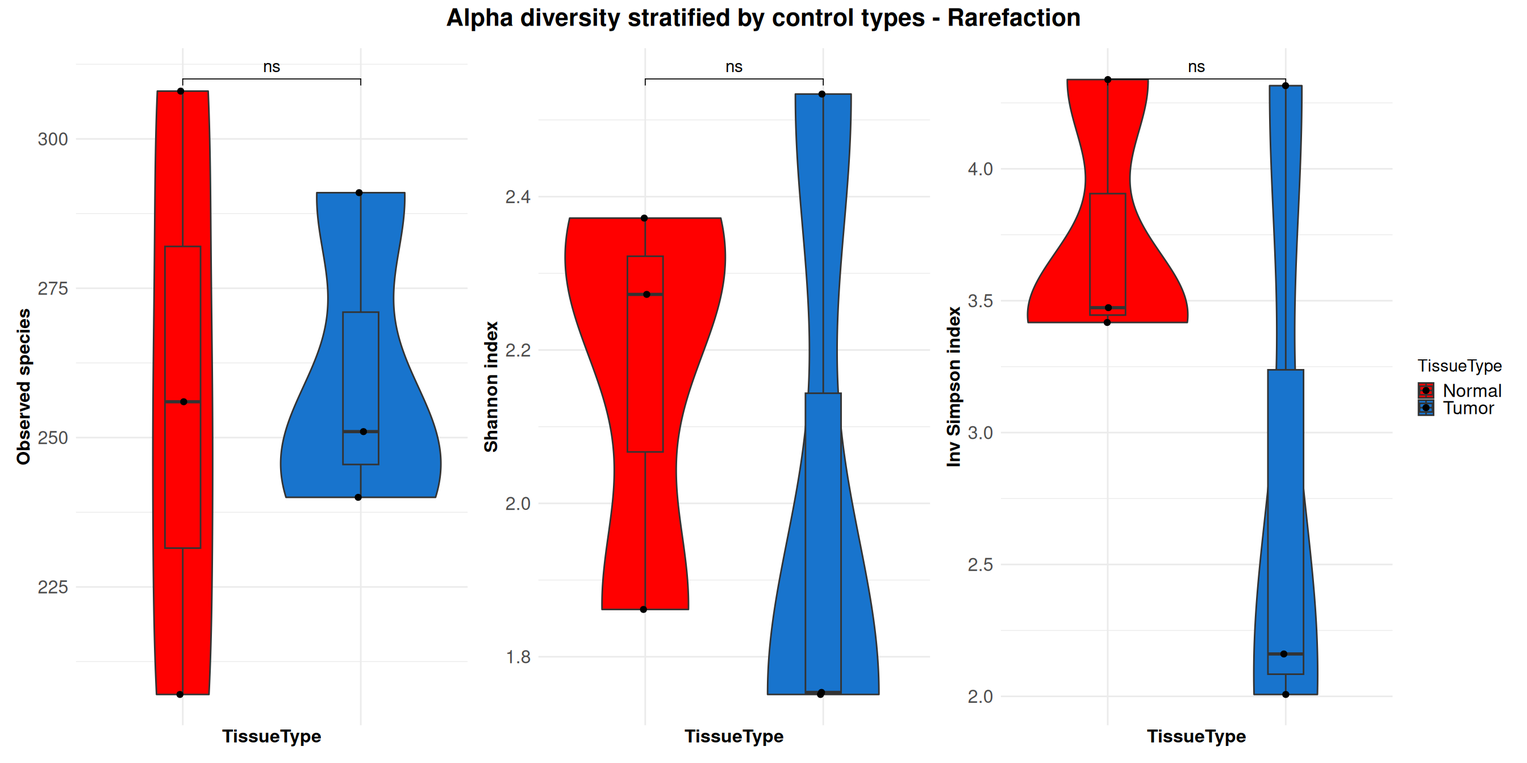
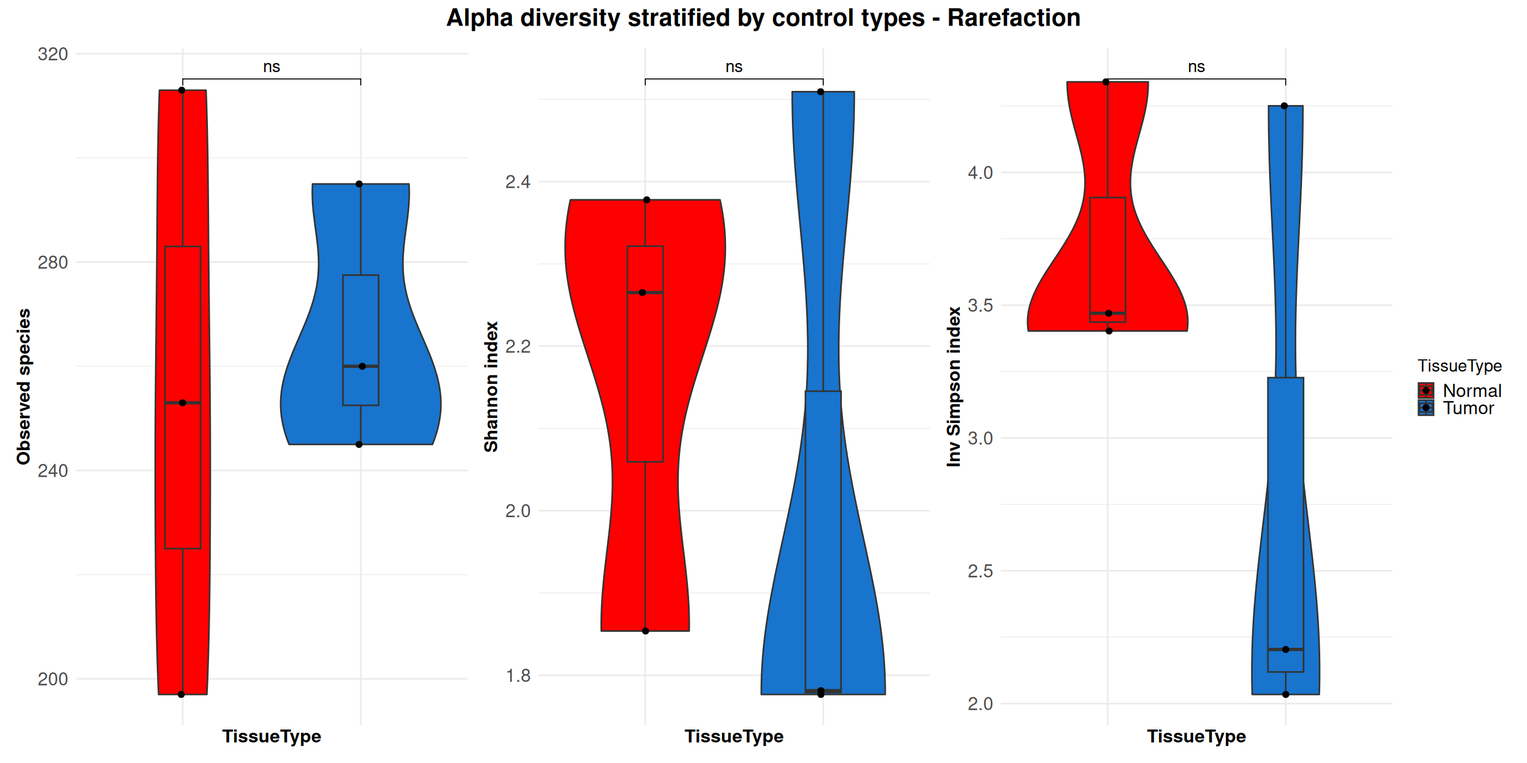
update Inspect for Dresden data

diff --git a/Rscripts/TTDresden/Inspect.html b/Rscripts/TTDresden/Inspect.html
@@ -657,6 +657,7 @@ pre > code.sourceCode > span > a:first-child::before { text-decoration: underlin
 </div>
 </div>
 </div>
+<p>Nejman Decontamination</p>
 <div class="cell" data-fig-lightbox="true">
 <details class="code-fold">
 <summary>Code</summary>
@@ -670,31 +671,55 @@ pre > code.sourceCode > span > a:first-child::before { text-decoration: underlin
 </div>
 </div>
 </div>
+<p>Taxa from Nj method</p>
+<div class="cell">
+<details class="code-fold">
+<summary>Code</summary>
+<div class="sourceCode cell-code" id="cb23"><pre class="sourceCode r code-with-copy"><code class="sourceCode r"><span id="cb23-1"><a href="#cb23-1" aria-hidden="true" tabindex="-1"></a><span class="fu">print</span>(pseq_Nj <span class="sc">%&gt;%</span> <span class="fu">taxa_sums</span>() <span class="sc">%&gt;%</span> <span class="fu">as.data.frame</span>())</span></code><button title="Copy to Clipboard" class="code-copy-button"><i class="bi"></i></button></pre></div>
+</details>
+<div class="cell-output cell-output-stdout">
+<pre><code>                                   .
+Burkholderia_cepacia             220
+Brucella_anthropi                106
+Oxalobacter_formigenes            45
+Enterococcus_faecalis          18039
+Enterococcus_faecium             842
+Lactiplantibacillus_plantarum    892
+Ligilactobacillus_murinus       5573
+Brevundimonas_bullata            183
+Burkholderia_pseudomallei         38
+Staphylococcus_capitis          3385
+Gemella_morbillorum              925
+Stenotrophomonas_maltophilia    1256
+Granulicatella_adiacens          836
+Burkholderia_pyrrocinia           58
+Burkholderia_cenocepacia        1073
+Paraburkholderia_hospita          47
+Verminephrobacter_eiseniae        10
+Rhodopseudomonas_boonkerdii       84
+Burkholderia_lata                306
+Burkholderia_arboris              95
+Stenotrophomonas_sp._9           188
+Bradyrhizobium_arachidis          62
+Rhodococcus_sp._P1Y               17
+Bradyrhizobium_diazoefficiens     44
+Janthinobacterium_sp._HH102      154
+Rhodococcus_sp._B7740            244
+Paucibacter_sp._KCTC_42545      1234
+Janthinobacterium_sp._LM6        451
+Stenotrophomonas_sp._WZN-1       194
+Burkholderia_aenigmatica         110
+Rhodoferax_sp._AJA081-3           29
+Bradyrhizobium_prioritasuperba   266
+Sphingomonas_cannabina           361
+Janthinobacterium_sp._TB1-E2      80</code></pre>
+</div>
+</div>
 <p>Heatmap</p>
 <div class="cell" data-fig-lightbox="true">
 <details class="code-fold">
 <summary>Code</summary>
-<div class="sourceCode cell-code" id="cb23"><pre class="sourceCode r code-with-copy"><code class="sourceCode r"><span id="cb23-1"><a href="#cb23-1" aria-hidden="true" tabindex="-1"></a><span class="fu">HeatMap_MicroViz</span>(<span class="at">ps =</span> pseq_Decontam, <span class="at">rnk =</span> <span class="st">"genus"</span>, <span class="at">tax_trans =</span> <span class="st">"compositional"</span>, <span class="at">tax_order_by =</span> sum, <span class="at">n_taxa =</span> <span class="dv">15</span>, <span class="at">strata =</span> <span class="st">"TissueType"</span>, <span class="at">my_title =</span> <span class="st">"Top 15 genera by sum"</span>)</span></code><button title="Copy to Clipboard" class="code-copy-button"><i class="bi"></i></button></pre></div>
-</details>
-<div class="cell-output-display">
-<div>
-<figure class="figure">
-<p><img src="Inspect_files/figure-html/unnamed-chunk-24-1.png" class="img-fluid figure-img" width="960"></p>
-</figure>
-</div>
-</div>
-<div class="cell-output-display">
-<div>
-<figure class="figure">
-<p><img src="Inspect_files/figure-html/unnamed-chunk-24-2.png" class="img-fluid figure-img" width="960"></p>
-</figure>
-</div>
-</div>
-</div>
-<div class="cell" data-fig-lightbox="true">
-<details class="code-fold">
-<summary>Code</summary>
-<div class="sourceCode cell-code" id="cb24"><pre class="sourceCode r code-with-copy"><code class="sourceCode r"><span id="cb24-1"><a href="#cb24-1" aria-hidden="true" tabindex="-1"></a><span class="fu">HeatMap_MicroViz</span>(<span class="at">ps =</span> pseq_Decontam, <span class="at">rnk =</span> <span class="st">"genus"</span>, <span class="at">tax_trans =</span> <span class="st">"compositional"</span>, <span class="at">tax_order_by =</span> prev, <span class="at">n_taxa =</span> <span class="dv">15</span>, <span class="at">strata =</span> <span class="st">"TissueType"</span>, <span class="at">my_title =</span> <span class="st">"Top 15 genera by prev"</span>)</span></code><button title="Copy to Clipboard" class="code-copy-button"><i class="bi"></i></button></pre></div>
+<div class="sourceCode cell-code" id="cb25"><pre class="sourceCode r code-with-copy"><code class="sourceCode r"><span id="cb25-1"><a href="#cb25-1" aria-hidden="true" tabindex="-1"></a><span class="fu">HeatMap_MicroViz</span>(<span class="at">ps =</span> pseq_Decontam, <span class="at">rnk =</span> <span class="st">"genus"</span>, <span class="at">tax_trans =</span> <span class="st">"compositional"</span>, <span class="at">tax_order_by =</span> sum, <span class="at">n_taxa =</span> <span class="dv">15</span>, <span class="at">strata =</span> <span class="st">"TissueType"</span>, <span class="at">my_title =</span> <span class="st">"Top 15 genera by sum"</span>)</span></code><button title="Copy to Clipboard" class="code-copy-button"><i class="bi"></i></button></pre></div>
 </details>
 <div class="cell-output-display">
 <div>
@@ -714,7 +739,7 @@ pre > code.sourceCode > span > a:first-child::before { text-decoration: underlin
 <div class="cell" data-fig-lightbox="true">
 <details class="code-fold">
 <summary>Code</summary>
-<div class="sourceCode cell-code" id="cb25"><pre class="sourceCode r code-with-copy"><code class="sourceCode r"><span id="cb25-1"><a href="#cb25-1" aria-hidden="true" tabindex="-1"></a><span class="fu">HeatMap_MicroViz</span>(<span class="at">ps =</span> pseq_Decontam, <span class="at">rnk =</span> <span class="st">"family"</span>, <span class="at">tax_trans =</span> <span class="st">"compositional"</span>, <span class="at">tax_order_by =</span> sum, <span class="at">n_taxa =</span> <span class="dv">15</span>, <span class="at">strata =</span> <span class="st">"TissueType"</span>, <span class="at">my_title =</span> <span class="st">"Top 15 families by sum"</span>)</span></code><button title="Copy to Clipboard" class="code-copy-button"><i class="bi"></i></button></pre></div>
+<div class="sourceCode cell-code" id="cb26"><pre class="sourceCode r code-with-copy"><code class="sourceCode r"><span id="cb26-1"><a href="#cb26-1" aria-hidden="true" tabindex="-1"></a><span class="fu">HeatMap_MicroViz</span>(<span class="at">ps =</span> pseq_Decontam, <span class="at">rnk =</span> <span class="st">"genus"</span>, <span class="at">tax_trans =</span> <span class="st">"compositional"</span>, <span class="at">tax_order_by =</span> prev, <span class="at">n_taxa =</span> <span class="dv">15</span>, <span class="at">strata =</span> <span class="st">"TissueType"</span>, <span class="at">my_title =</span> <span class="st">"Top 15 genera by prev"</span>)</span></code><button title="Copy to Clipboard" class="code-copy-button"><i class="bi"></i></button></pre></div>
 </details>
 <div class="cell-output-display">
 <div>
@@ -734,7 +759,7 @@ pre > code.sourceCode > span > a:first-child::before { text-decoration: underlin
 <div class="cell" data-fig-lightbox="true">
 <details class="code-fold">
 <summary>Code</summary>
-<div class="sourceCode cell-code" id="cb26"><pre class="sourceCode r code-with-copy"><code class="sourceCode r"><span id="cb26-1"><a href="#cb26-1" aria-hidden="true" tabindex="-1"></a><span class="fu">HeatMap_MicroViz</span>(<span class="at">ps =</span> pseq_Decontam, <span class="at">rnk =</span> <span class="st">"class"</span>, <span class="at">tax_trans =</span> <span class="st">"compositional"</span>, <span class="at">tax_order_by =</span> sum, <span class="at">n_taxa =</span> <span class="dv">10</span>, <span class="at">strata =</span> <span class="st">"TissueType"</span>, <span class="at">my_title =</span> <span class="st">"Top 10 classes by sum"</span>)</span></code><button title="Copy to Clipboard" class="code-copy-button"><i class="bi"></i></button></pre></div>
+<div class="sourceCode cell-code" id="cb27"><pre class="sourceCode r code-with-copy"><code class="sourceCode r"><span id="cb27-1"><a href="#cb27-1" aria-hidden="true" tabindex="-1"></a><span class="fu">HeatMap_MicroViz</span>(<span class="at">ps =</span> pseq_Decontam, <span class="at">rnk =</span> <span class="st">"family"</span>, <span class="at">tax_trans =</span> <span class="st">"compositional"</span>, <span class="at">tax_order_by =</span> sum, <span class="at">n_taxa =</span> <span class="dv">15</span>, <span class="at">strata =</span> <span class="st">"TissueType"</span>, <span class="at">my_title =</span> <span class="st">"Top 15 families by sum"</span>)</span></code><button title="Copy to Clipboard" class="code-copy-button"><i class="bi"></i></button></pre></div>
 </details>
 <div class="cell-output-display">
 <div>
@@ -751,6 +776,26 @@ pre > code.sourceCode > span > a:first-child::before { text-decoration: underlin
 </div>
 </div>
 </div>
+<div class="cell" data-fig-lightbox="true">
+<details class="code-fold">
+<summary>Code</summary>
+<div class="sourceCode cell-code" id="cb28"><pre class="sourceCode r code-with-copy"><code class="sourceCode r"><span id="cb28-1"><a href="#cb28-1" aria-hidden="true" tabindex="-1"></a><span class="fu">HeatMap_MicroViz</span>(<span class="at">ps =</span> pseq_Decontam, <span class="at">rnk =</span> <span class="st">"class"</span>, <span class="at">tax_trans =</span> <span class="st">"compositional"</span>, <span class="at">tax_order_by =</span> sum, <span class="at">n_taxa =</span> <span class="dv">10</span>, <span class="at">strata =</span> <span class="st">"TissueType"</span>, <span class="at">my_title =</span> <span class="st">"Top 10 classes by sum"</span>)</span></code><button title="Copy to Clipboard" class="code-copy-button"><i class="bi"></i></button></pre></div>
+</details>
+<div class="cell-output-display">
+<div>
+<figure class="figure">
+<p><img src="Inspect_files/figure-html/unnamed-chunk-28-1.png" class="img-fluid figure-img" width="960"></p>
+</figure>
+</div>
+</div>
+<div class="cell-output-display">
+<div>
+<figure class="figure">
+<p><img src="Inspect_files/figure-html/unnamed-chunk-28-2.png" class="img-fluid figure-img" width="960"></p>
+</figure>
+</div>
+</div>
+</div>
 </section>
 <section id="daa" class="level1">
 <h1>2. DAA</h1>
@@ -759,27 +804,27 @@ pre > code.sourceCode > span > a:first-child::before { text-decoration: underlin
 <div class="cell">
 <details class="code-fold">
 <summary>Code</summary>
-<div class="sourceCode cell-code" id="cb27"><pre class="sourceCode r code-with-copy"><code class="sourceCode r"><span id="cb27-1"><a href="#cb27-1" aria-hidden="true" tabindex="-1"></a><span class="fu">require</span>(ANCOMBC)</span>
-<span id="cb27-2"><a href="#cb27-2" aria-hidden="true" tabindex="-1"></a></span>
-<span id="cb27-3"><a href="#cb27-3" aria-hidden="true" tabindex="-1"></a><span class="co"># res &lt;- pseq %&gt;% ps_filter(person != "unknown") %&gt;% </span></span>
-<span id="cb27-4"><a href="#cb27-4" aria-hidden="true" tabindex="-1"></a><span class="co">#   ps_filter(sample_type != "pcr_ctrl") %&gt;% </span></span>
-<span id="cb27-5"><a href="#cb27-5" aria-hidden="true" tabindex="-1"></a><span class="co">#   tax_filter(min_prevalence = 0.05, min_total_abundance = 1e-5, prev_detection_threshold = 2) %&gt;% </span></span>
-<span id="cb27-6"><a href="#cb27-6" aria-hidden="true" tabindex="-1"></a><span class="co">#   tax_agg(rank = "family") %&gt;% </span></span>
-<span id="cb27-7"><a href="#cb27-7" aria-hidden="true" tabindex="-1"></a><span class="co">#   ancombc2(</span></span>
-<span id="cb27-8"><a href="#cb27-8" aria-hidden="true" tabindex="-1"></a><span class="co">#   data = .,</span></span>
-<span id="cb27-9"><a href="#cb27-9" aria-hidden="true" tabindex="-1"></a><span class="co">#   rank = "family",</span></span>
-<span id="cb27-10"><a href="#cb27-10" aria-hidden="true" tabindex="-1"></a><span class="co">#   fix_formula = "sample_type",</span></span>
-<span id="cb27-11"><a href="#cb27-11" aria-hidden="true" tabindex="-1"></a><span class="co">#   rand_formula = "(1|person)",</span></span>
-<span id="cb27-12"><a href="#cb27-12" aria-hidden="true" tabindex="-1"></a><span class="co">#   group = NULL,             # Variable for multi-group comparison/structural zeros</span></span>
-<span id="cb27-13"><a href="#cb27-13" aria-hidden="true" tabindex="-1"></a><span class="co">#   struc_zero = FALSE,               # Recommended to detect absolute presence/absence</span></span>
-<span id="cb27-14"><a href="#cb27-14" aria-hidden="true" tabindex="-1"></a><span class="co">#   neg_lb = TRUE,                   # Better structural zero detection for larger samples</span></span>
-<span id="cb27-15"><a href="#cb27-15" aria-hidden="true" tabindex="-1"></a><span class="co">#   alpha = 0.1,                    # Significance level</span></span>
-<span id="cb27-16"><a href="#cb27-16" aria-hidden="true" tabindex="-1"></a><span class="co">#   n_cl = 10</span></span>
-<span id="cb27-17"><a href="#cb27-17" aria-hidden="true" tabindex="-1"></a><span class="co"># )</span></span>
-<span id="cb27-18"><a href="#cb27-18" aria-hidden="true" tabindex="-1"></a><span class="do">## ancombc2_genus.rds: --&gt; rank: genus, min_prevalence = 0.05, min_total_abundance = 1e-5</span></span>
-<span id="cb27-19"><a href="#cb27-19" aria-hidden="true" tabindex="-1"></a><span class="do">## ancombc2_species.rds --&gt; rank: species, min_prevalence = 0.05, min_total_abundance = 1e-5, prev_detection_threshold = 2</span></span>
-<span id="cb27-20"><a href="#cb27-20" aria-hidden="true" tabindex="-1"></a><span class="do">## ancombc2_family.rds  --&gt; rank: family, min_prevalence = 0.05, min_total_abundance = 1e-5, prev_detection_threshold = 2</span></span>
-<span id="cb27-21"><a href="#cb27-21" aria-hidden="true" tabindex="-1"></a><span class="co"># saveRDS(res, "./ancombc2_family.rds")</span></span></code><button title="Copy to Clipboard" class="code-copy-button"><i class="bi"></i></button></pre></div>
+<div class="sourceCode cell-code" id="cb29"><pre class="sourceCode r code-with-copy"><code class="sourceCode r"><span id="cb29-1"><a href="#cb29-1" aria-hidden="true" tabindex="-1"></a><span class="fu">require</span>(ANCOMBC)</span>
+<span id="cb29-2"><a href="#cb29-2" aria-hidden="true" tabindex="-1"></a></span>
+<span id="cb29-3"><a href="#cb29-3" aria-hidden="true" tabindex="-1"></a><span class="co"># res &lt;- pseq %&gt;% ps_filter(person != "unknown") %&gt;% </span></span>
+<span id="cb29-4"><a href="#cb29-4" aria-hidden="true" tabindex="-1"></a><span class="co">#   ps_filter(sample_type != "pcr_ctrl") %&gt;% </span></span>
+<span id="cb29-5"><a href="#cb29-5" aria-hidden="true" tabindex="-1"></a><span class="co">#   tax_filter(min_prevalence = 0.05, min_total_abundance = 1e-5, prev_detection_threshold = 2) %&gt;% </span></span>
+<span id="cb29-6"><a href="#cb29-6" aria-hidden="true" tabindex="-1"></a><span class="co">#   tax_agg(rank = "family") %&gt;% </span></span>
+<span id="cb29-7"><a href="#cb29-7" aria-hidden="true" tabindex="-1"></a><span class="co">#   ancombc2(</span></span>
+<span id="cb29-8"><a href="#cb29-8" aria-hidden="true" tabindex="-1"></a><span class="co">#   data = .,</span></span>
+<span id="cb29-9"><a href="#cb29-9" aria-hidden="true" tabindex="-1"></a><span class="co">#   rank = "family",</span></span>
+<span id="cb29-10"><a href="#cb29-10" aria-hidden="true" tabindex="-1"></a><span class="co">#   fix_formula = "sample_type",</span></span>
+<span id="cb29-11"><a href="#cb29-11" aria-hidden="true" tabindex="-1"></a><span class="co">#   rand_formula = "(1|person)",</span></span>
+<span id="cb29-12"><a href="#cb29-12" aria-hidden="true" tabindex="-1"></a><span class="co">#   group = NULL,             # Variable for multi-group comparison/structural zeros</span></span>
+<span id="cb29-13"><a href="#cb29-13" aria-hidden="true" tabindex="-1"></a><span class="co">#   struc_zero = FALSE,               # Recommended to detect absolute presence/absence</span></span>
+<span id="cb29-14"><a href="#cb29-14" aria-hidden="true" tabindex="-1"></a><span class="co">#   neg_lb = TRUE,                   # Better structural zero detection for larger samples</span></span>
+<span id="cb29-15"><a href="#cb29-15" aria-hidden="true" tabindex="-1"></a><span class="co">#   alpha = 0.1,                    # Significance level</span></span>
+<span id="cb29-16"><a href="#cb29-16" aria-hidden="true" tabindex="-1"></a><span class="co">#   n_cl = 10</span></span>
+<span id="cb29-17"><a href="#cb29-17" aria-hidden="true" tabindex="-1"></a><span class="co"># )</span></span>
+<span id="cb29-18"><a href="#cb29-18" aria-hidden="true" tabindex="-1"></a><span class="do">## ancombc2_genus.rds: --&gt; rank: genus, min_prevalence = 0.05, min_total_abundance = 1e-5</span></span>
+<span id="cb29-19"><a href="#cb29-19" aria-hidden="true" tabindex="-1"></a><span class="do">## ancombc2_species.rds --&gt; rank: species, min_prevalence = 0.05, min_total_abundance = 1e-5, prev_detection_threshold = 2</span></span>
+<span id="cb29-20"><a href="#cb29-20" aria-hidden="true" tabindex="-1"></a><span class="do">## ancombc2_family.rds  --&gt; rank: family, min_prevalence = 0.05, min_total_abundance = 1e-5, prev_detection_threshold = 2</span></span>
+<span id="cb29-21"><a href="#cb29-21" aria-hidden="true" tabindex="-1"></a><span class="co"># saveRDS(res, "./ancombc2_family.rds")</span></span></code><button title="Copy to Clipboard" class="code-copy-button"><i class="bi"></i></button></pre></div>
 </details>
 </div>
 <p><strong>Visualization</strong></p>
@@ -787,115 +832,115 @@ pre > code.sourceCode > span > a:first-child::before { text-decoration: underlin
 <div class="cell">
 <details class="code-fold">
 <summary>Code</summary>
-<div class="sourceCode cell-code" id="cb28"><pre class="sourceCode r code-with-copy"><code class="sourceCode r"><span id="cb28-1"><a href="#cb28-1" aria-hidden="true" tabindex="-1"></a><span class="co"># res &lt;- readRDS("./ancombc2_species.rds")</span></span>
-<span id="cb28-2"><a href="#cb28-2" aria-hidden="true" tabindex="-1"></a><span class="co"># res_prim &lt;- res$res</span></span>
-<span id="cb28-3"><a href="#cb28-3" aria-hidden="true" tabindex="-1"></a><span class="co"># sig_taxa_species &lt;- res_prim %&gt;%</span></span>
-<span id="cb28-4"><a href="#cb28-4" aria-hidden="true" tabindex="-1"></a><span class="co">#   mutate(Direction = if_else(lfc_sample_typeparaffin_ctrl &gt;0, "Paraffin Control", "Buffer Control")) %&gt;% </span></span>
-<span id="cb28-5"><a href="#cb28-5" aria-hidden="true" tabindex="-1"></a><span class="co">#   filter(p_sample_typeparaffin_ctrl &lt;=0.05) %&gt;% </span></span>
-<span id="cb28-6"><a href="#cb28-6" aria-hidden="true" tabindex="-1"></a><span class="co">#   arrange(desc(abs(lfc_sample_typeparaffin_ctrl))) %&gt;% </span></span>
-<span id="cb28-7"><a href="#cb28-7" aria-hidden="true" tabindex="-1"></a><span class="co">#   slice_head(n = 20)</span></span>
-<span id="cb28-8"><a href="#cb28-8" aria-hidden="true" tabindex="-1"></a><span class="co">#   #filter(diff_ConditionName == TRUE) %&gt;% # Replace ConditionName with your actual group</span></span>
-<span id="cb28-9"><a href="#cb28-9" aria-hidden="true" tabindex="-1"></a><span class="co">#   #arrange(desc(abs(lfc_ConditionName))) %&gt;%</span></span>
-<span id="cb28-10"><a href="#cb28-10" aria-hidden="true" tabindex="-1"></a><span class="co">#   #head(20)</span></span>
-<span id="cb28-11"><a href="#cb28-11" aria-hidden="true" tabindex="-1"></a><span class="co"># </span></span>
-<span id="cb28-12"><a href="#cb28-12" aria-hidden="true" tabindex="-1"></a><span class="co"># # Plotting</span></span>
-<span id="cb28-13"><a href="#cb28-13" aria-hidden="true" tabindex="-1"></a><span class="co"># ggplot(sig_taxa_species, aes(x = reorder(taxon, lfc_sample_typeparaffin_ctrl), </span></span>
-<span id="cb28-14"><a href="#cb28-14" aria-hidden="true" tabindex="-1"></a><span class="co">#                                     y = lfc_sample_typeparaffin_ctrl, fill = Direction)) +</span></span>
-<span id="cb28-15"><a href="#cb28-15" aria-hidden="true" tabindex="-1"></a><span class="co">#   #theme(legend.title = element_blank()) +</span></span>
-<span id="cb28-16"><a href="#cb28-16" aria-hidden="true" tabindex="-1"></a><span class="co">#   #theme(legend.position="top", legend.direction="horizontal") +</span></span>
-<span id="cb28-17"><a href="#cb28-17" aria-hidden="true" tabindex="-1"></a><span class="co">#   scale_fill_discrete("") +</span></span>
-<span id="cb28-18"><a href="#cb28-18" aria-hidden="true" tabindex="-1"></a><span class="co">#   geom_bar(stat = "identity") +</span></span>
-<span id="cb28-19"><a href="#cb28-19" aria-hidden="true" tabindex="-1"></a><span class="co">#   coord_flip() +</span></span>
-<span id="cb28-20"><a href="#cb28-20" aria-hidden="true" tabindex="-1"></a><span class="co">#   labs(title = "ANCOM-BC2 - Differential Abundance Analyses",</span></span>
-<span id="cb28-21"><a href="#cb28-21" aria-hidden="true" tabindex="-1"></a><span class="co">#        x = "Species", y = "Log Fold Change") +</span></span>
-<span id="cb28-22"><a href="#cb28-22" aria-hidden="true" tabindex="-1"></a><span class="co">#   theme_minimal()</span></span></code><button title="Copy to Clipboard" class="code-copy-button"><i class="bi"></i></button></pre></div>
+<div class="sourceCode cell-code" id="cb30"><pre class="sourceCode r code-with-copy"><code class="sourceCode r"><span id="cb30-1"><a href="#cb30-1" aria-hidden="true" tabindex="-1"></a><span class="co"># res &lt;- readRDS("./ancombc2_species.rds")</span></span>
+<span id="cb30-2"><a href="#cb30-2" aria-hidden="true" tabindex="-1"></a><span class="co"># res_prim &lt;- res$res</span></span>
+<span id="cb30-3"><a href="#cb30-3" aria-hidden="true" tabindex="-1"></a><span class="co"># sig_taxa_species &lt;- res_prim %&gt;%</span></span>
+<span id="cb30-4"><a href="#cb30-4" aria-hidden="true" tabindex="-1"></a><span class="co">#   mutate(Direction = if_else(lfc_sample_typeparaffin_ctrl &gt;0, "Paraffin Control", "Buffer Control")) %&gt;% </span></span>
+<span id="cb30-5"><a href="#cb30-5" aria-hidden="true" tabindex="-1"></a><span class="co">#   filter(p_sample_typeparaffin_ctrl &lt;=0.05) %&gt;% </span></span>
+<span id="cb30-6"><a href="#cb30-6" aria-hidden="true" tabindex="-1"></a><span class="co">#   arrange(desc(abs(lfc_sample_typeparaffin_ctrl))) %&gt;% </span></span>
+<span id="cb30-7"><a href="#cb30-7" aria-hidden="true" tabindex="-1"></a><span class="co">#   slice_head(n = 20)</span></span>
+<span id="cb30-8"><a href="#cb30-8" aria-hidden="true" tabindex="-1"></a><span class="co">#   #filter(diff_ConditionName == TRUE) %&gt;% # Replace ConditionName with your actual group</span></span>
+<span id="cb30-9"><a href="#cb30-9" aria-hidden="true" tabindex="-1"></a><span class="co">#   #arrange(desc(abs(lfc_ConditionName))) %&gt;%</span></span>
+<span id="cb30-10"><a href="#cb30-10" aria-hidden="true" tabindex="-1"></a><span class="co">#   #head(20)</span></span>
+<span id="cb30-11"><a href="#cb30-11" aria-hidden="true" tabindex="-1"></a><span class="co"># </span></span>
+<span id="cb30-12"><a href="#cb30-12" aria-hidden="true" tabindex="-1"></a><span class="co"># # Plotting</span></span>
+<span id="cb30-13"><a href="#cb30-13" aria-hidden="true" tabindex="-1"></a><span class="co"># ggplot(sig_taxa_species, aes(x = reorder(taxon, lfc_sample_typeparaffin_ctrl), </span></span>
+<span id="cb30-14"><a href="#cb30-14" aria-hidden="true" tabindex="-1"></a><span class="co">#                                     y = lfc_sample_typeparaffin_ctrl, fill = Direction)) +</span></span>
+<span id="cb30-15"><a href="#cb30-15" aria-hidden="true" tabindex="-1"></a><span class="co">#   #theme(legend.title = element_blank()) +</span></span>
+<span id="cb30-16"><a href="#cb30-16" aria-hidden="true" tabindex="-1"></a><span class="co">#   #theme(legend.position="top", legend.direction="horizontal") +</span></span>
+<span id="cb30-17"><a href="#cb30-17" aria-hidden="true" tabindex="-1"></a><span class="co">#   scale_fill_discrete("") +</span></span>
+<span id="cb30-18"><a href="#cb30-18" aria-hidden="true" tabindex="-1"></a><span class="co">#   geom_bar(stat = "identity") +</span></span>
+<span id="cb30-19"><a href="#cb30-19" aria-hidden="true" tabindex="-1"></a><span class="co">#   coord_flip() +</span></span>
+<span id="cb30-20"><a href="#cb30-20" aria-hidden="true" tabindex="-1"></a><span class="co">#   labs(title = "ANCOM-BC2 - Differential Abundance Analyses",</span></span>
+<span id="cb30-21"><a href="#cb30-21" aria-hidden="true" tabindex="-1"></a><span class="co">#        x = "Species", y = "Log Fold Change") +</span></span>
+<span id="cb30-22"><a href="#cb30-22" aria-hidden="true" tabindex="-1"></a><span class="co">#   theme_minimal()</span></span></code><button title="Copy to Clipboard" class="code-copy-button"><i class="bi"></i></button></pre></div>
 </details>
 </div>
 <p>Genus</p>
 <div class="cell">
 <details class="code-fold">
 <summary>Code</summary>
-<div class="sourceCode cell-code" id="cb29"><pre class="sourceCode r code-with-copy"><code class="sourceCode r"><span id="cb29-1"><a href="#cb29-1" aria-hidden="true" tabindex="-1"></a><span class="co"># res &lt;- readRDS("./ancombc2_genus.rds")</span></span>
-<span id="cb29-2"><a href="#cb29-2" aria-hidden="true" tabindex="-1"></a><span class="co"># res_prim &lt;- res$res</span></span>
-<span id="cb29-3"><a href="#cb29-3" aria-hidden="true" tabindex="-1"></a><span class="co"># sig_taxa_genus &lt;- res_prim %&gt;%</span></span>
-<span id="cb29-4"><a href="#cb29-4" aria-hidden="true" tabindex="-1"></a><span class="co">#   mutate(Direction = if_else(lfc_sample_typeparaffin_ctrl &gt;0, "Paraffin Control", "Buffer Control")) %&gt;% </span></span>
-<span id="cb29-5"><a href="#cb29-5" aria-hidden="true" tabindex="-1"></a><span class="co">#   filter(p_sample_typeparaffin_ctrl &lt;=0.05) #%&gt;% </span></span>
-<span id="cb29-6"><a href="#cb29-6" aria-hidden="true" tabindex="-1"></a><span class="co">#   #arrange(desc(abs(lfc_sample_typeparaffin_ctrl))) %&gt;% </span></span>
-<span id="cb29-7"><a href="#cb29-7" aria-hidden="true" tabindex="-1"></a><span class="co">#   #slice_head(n = 20)</span></span>
-<span id="cb29-8"><a href="#cb29-8" aria-hidden="true" tabindex="-1"></a><span class="co">#   #filter(diff_ConditionName == TRUE) %&gt;% # Replace ConditionName with your actual group</span></span>
-<span id="cb29-9"><a href="#cb29-9" aria-hidden="true" tabindex="-1"></a><span class="co">#   #arrange(desc(abs(lfc_ConditionName))) %&gt;%</span></span>
-<span id="cb29-10"><a href="#cb29-10" aria-hidden="true" tabindex="-1"></a><span class="co">#   #head(20)</span></span>
-<span id="cb29-11"><a href="#cb29-11" aria-hidden="true" tabindex="-1"></a><span class="co"># </span></span>
-<span id="cb29-12"><a href="#cb29-12" aria-hidden="true" tabindex="-1"></a><span class="co"># # Plotting</span></span>
-<span id="cb29-13"><a href="#cb29-13" aria-hidden="true" tabindex="-1"></a><span class="co"># ggplot(sig_taxa_genus, aes(x = reorder(taxon, lfc_sample_typeparaffin_ctrl), y = lfc_sample_typeparaffin_ctrl, fill = Direction)) +</span></span>
-<span id="cb29-14"><a href="#cb29-14" aria-hidden="true" tabindex="-1"></a><span class="co">#   scale_fill_discrete("") +</span></span>
-<span id="cb29-15"><a href="#cb29-15" aria-hidden="true" tabindex="-1"></a><span class="co">#   geom_bar(stat = "identity") +</span></span>
-<span id="cb29-16"><a href="#cb29-16" aria-hidden="true" tabindex="-1"></a><span class="co">#   coord_flip() +</span></span>
-<span id="cb29-17"><a href="#cb29-17" aria-hidden="true" tabindex="-1"></a><span class="co">#   labs(title = "ANCOM-BC2 - Differential Abundance Analyses",</span></span>
-<span id="cb29-18"><a href="#cb29-18" aria-hidden="true" tabindex="-1"></a><span class="co">#        x = "Genera", y = "Log Fold Change") +</span></span>
-<span id="cb29-19"><a href="#cb29-19" aria-hidden="true" tabindex="-1"></a><span class="co">#   theme_minimal()</span></span></code><button title="Copy to Clipboard" class="code-copy-button"><i class="bi"></i></button></pre></div>
+<div class="sourceCode cell-code" id="cb31"><pre class="sourceCode r code-with-copy"><code class="sourceCode r"><span id="cb31-1"><a href="#cb31-1" aria-hidden="true" tabindex="-1"></a><span class="co"># res &lt;- readRDS("./ancombc2_genus.rds")</span></span>
+<span id="cb31-2"><a href="#cb31-2" aria-hidden="true" tabindex="-1"></a><span class="co"># res_prim &lt;- res$res</span></span>
+<span id="cb31-3"><a href="#cb31-3" aria-hidden="true" tabindex="-1"></a><span class="co"># sig_taxa_genus &lt;- res_prim %&gt;%</span></span>
+<span id="cb31-4"><a href="#cb31-4" aria-hidden="true" tabindex="-1"></a><span class="co">#   mutate(Direction = if_else(lfc_sample_typeparaffin_ctrl &gt;0, "Paraffin Control", "Buffer Control")) %&gt;% </span></span>
+<span id="cb31-5"><a href="#cb31-5" aria-hidden="true" tabindex="-1"></a><span class="co">#   filter(p_sample_typeparaffin_ctrl &lt;=0.05) #%&gt;% </span></span>
+<span id="cb31-6"><a href="#cb31-6" aria-hidden="true" tabindex="-1"></a><span class="co">#   #arrange(desc(abs(lfc_sample_typeparaffin_ctrl))) %&gt;% </span></span>
+<span id="cb31-7"><a href="#cb31-7" aria-hidden="true" tabindex="-1"></a><span class="co">#   #slice_head(n = 20)</span></span>
+<span id="cb31-8"><a href="#cb31-8" aria-hidden="true" tabindex="-1"></a><span class="co">#   #filter(diff_ConditionName == TRUE) %&gt;% # Replace ConditionName with your actual group</span></span>
+<span id="cb31-9"><a href="#cb31-9" aria-hidden="true" tabindex="-1"></a><span class="co">#   #arrange(desc(abs(lfc_ConditionName))) %&gt;%</span></span>
+<span id="cb31-10"><a href="#cb31-10" aria-hidden="true" tabindex="-1"></a><span class="co">#   #head(20)</span></span>
+<span id="cb31-11"><a href="#cb31-11" aria-hidden="true" tabindex="-1"></a><span class="co"># </span></span>
+<span id="cb31-12"><a href="#cb31-12" aria-hidden="true" tabindex="-1"></a><span class="co"># # Plotting</span></span>
+<span id="cb31-13"><a href="#cb31-13" aria-hidden="true" tabindex="-1"></a><span class="co"># ggplot(sig_taxa_genus, aes(x = reorder(taxon, lfc_sample_typeparaffin_ctrl), y = lfc_sample_typeparaffin_ctrl, fill = Direction)) +</span></span>
+<span id="cb31-14"><a href="#cb31-14" aria-hidden="true" tabindex="-1"></a><span class="co">#   scale_fill_discrete("") +</span></span>
+<span id="cb31-15"><a href="#cb31-15" aria-hidden="true" tabindex="-1"></a><span class="co">#   geom_bar(stat = "identity") +</span></span>
+<span id="cb31-16"><a href="#cb31-16" aria-hidden="true" tabindex="-1"></a><span class="co">#   coord_flip() +</span></span>
+<span id="cb31-17"><a href="#cb31-17" aria-hidden="true" tabindex="-1"></a><span class="co">#   labs(title = "ANCOM-BC2 - Differential Abundance Analyses",</span></span>
+<span id="cb31-18"><a href="#cb31-18" aria-hidden="true" tabindex="-1"></a><span class="co">#        x = "Genera", y = "Log Fold Change") +</span></span>
+<span id="cb31-19"><a href="#cb31-19" aria-hidden="true" tabindex="-1"></a><span class="co">#   theme_minimal()</span></span></code><button title="Copy to Clipboard" class="code-copy-button"><i class="bi"></i></button></pre></div>
 </details>
 </div>
 <p>Family</p>
 <div class="cell">
 <details class="code-fold">
 <summary>Code</summary>
-<div class="sourceCode cell-code" id="cb30"><pre class="sourceCode r code-with-copy"><code class="sourceCode r"><span id="cb30-1"><a href="#cb30-1" aria-hidden="true" tabindex="-1"></a><span class="co"># res &lt;- readRDS("./ancombc2_family.rds")</span></span>
-<span id="cb30-2"><a href="#cb30-2" aria-hidden="true" tabindex="-1"></a><span class="co"># res_prim &lt;- res$res</span></span>
-<span id="cb30-3"><a href="#cb30-3" aria-hidden="true" tabindex="-1"></a><span class="co"># sig_taxa_family &lt;- res_prim %&gt;%</span></span>
-<span id="cb30-4"><a href="#cb30-4" aria-hidden="true" tabindex="-1"></a><span class="co">#   mutate(Direction = if_else(lfc_sample_typeparaffin_ctrl &gt;0, "Paraffin Control", "Buffer Control")) %&gt;% </span></span>
-<span id="cb30-5"><a href="#cb30-5" aria-hidden="true" tabindex="-1"></a><span class="co">#   filter(p_sample_typeparaffin_ctrl &lt;=0.05) #%&gt;% </span></span>
-<span id="cb30-6"><a href="#cb30-6" aria-hidden="true" tabindex="-1"></a><span class="co">#   #arrange(desc(abs(lfc_sample_typeparaffin_ctrl))) %&gt;% </span></span>
-<span id="cb30-7"><a href="#cb30-7" aria-hidden="true" tabindex="-1"></a><span class="co">#   #slice_head(n = 20)</span></span>
-<span id="cb30-8"><a href="#cb30-8" aria-hidden="true" tabindex="-1"></a><span class="co">#   #filter(diff_ConditionName == TRUE) %&gt;% # Replace ConditionName with your actual group</span></span>
-<span id="cb30-9"><a href="#cb30-9" aria-hidden="true" tabindex="-1"></a><span class="co">#   #arrange(desc(abs(lfc_ConditionName))) %&gt;%</span></span>
-<span id="cb30-10"><a href="#cb30-10" aria-hidden="true" tabindex="-1"></a><span class="co">#   #head(20)</span></span>
-<span id="cb30-11"><a href="#cb30-11" aria-hidden="true" tabindex="-1"></a><span class="co"># </span></span>
-<span id="cb30-12"><a href="#cb30-12" aria-hidden="true" tabindex="-1"></a><span class="co"># # Plotting</span></span>
-<span id="cb30-13"><a href="#cb30-13" aria-hidden="true" tabindex="-1"></a><span class="co"># ggplot(sig_taxa_family, aes(x = reorder(taxon, lfc_sample_typeparaffin_ctrl), y = lfc_sample_typeparaffin_ctrl, fill = Direction)) +</span></span>
-<span id="cb30-14"><a href="#cb30-14" aria-hidden="true" tabindex="-1"></a><span class="co">#   scale_fill_discrete("") +</span></span>
-<span id="cb30-15"><a href="#cb30-15" aria-hidden="true" tabindex="-1"></a><span class="co">#   geom_bar(stat = "identity") +</span></span>
-<span id="cb30-16"><a href="#cb30-16" aria-hidden="true" tabindex="-1"></a><span class="co">#   coord_flip() +</span></span>
-<span id="cb30-17"><a href="#cb30-17" aria-hidden="true" tabindex="-1"></a><span class="co">#   labs(title = "ANCOM-BC2 - Differential Abundance Analyses", x = "Families", y = "Log Fold Change") +</span></span>
-<span id="cb30-18"><a href="#cb30-18" aria-hidden="true" tabindex="-1"></a><span class="co">#   theme_minimal()</span></span></code><button title="Copy to Clipboard" class="code-copy-button"><i class="bi"></i></button></pre></div>
+<div class="sourceCode cell-code" id="cb32"><pre class="sourceCode r code-with-copy"><code class="sourceCode r"><span id="cb32-1"><a href="#cb32-1" aria-hidden="true" tabindex="-1"></a><span class="co"># res &lt;- readRDS("./ancombc2_family.rds")</span></span>
+<span id="cb32-2"><a href="#cb32-2" aria-hidden="true" tabindex="-1"></a><span class="co"># res_prim &lt;- res$res</span></span>
+<span id="cb32-3"><a href="#cb32-3" aria-hidden="true" tabindex="-1"></a><span class="co"># sig_taxa_family &lt;- res_prim %&gt;%</span></span>
+<span id="cb32-4"><a href="#cb32-4" aria-hidden="true" tabindex="-1"></a><span class="co">#   mutate(Direction = if_else(lfc_sample_typeparaffin_ctrl &gt;0, "Paraffin Control", "Buffer Control")) %&gt;% </span></span>
+<span id="cb32-5"><a href="#cb32-5" aria-hidden="true" tabindex="-1"></a><span class="co">#   filter(p_sample_typeparaffin_ctrl &lt;=0.05) #%&gt;% </span></span>
+<span id="cb32-6"><a href="#cb32-6" aria-hidden="true" tabindex="-1"></a><span class="co">#   #arrange(desc(abs(lfc_sample_typeparaffin_ctrl))) %&gt;% </span></span>
+<span id="cb32-7"><a href="#cb32-7" aria-hidden="true" tabindex="-1"></a><span class="co">#   #slice_head(n = 20)</span></span>
+<span id="cb32-8"><a href="#cb32-8" aria-hidden="true" tabindex="-1"></a><span class="co">#   #filter(diff_ConditionName == TRUE) %&gt;% # Replace ConditionName with your actual group</span></span>
+<span id="cb32-9"><a href="#cb32-9" aria-hidden="true" tabindex="-1"></a><span class="co">#   #arrange(desc(abs(lfc_ConditionName))) %&gt;%</span></span>
+<span id="cb32-10"><a href="#cb32-10" aria-hidden="true" tabindex="-1"></a><span class="co">#   #head(20)</span></span>
+<span id="cb32-11"><a href="#cb32-11" aria-hidden="true" tabindex="-1"></a><span class="co"># </span></span>
+<span id="cb32-12"><a href="#cb32-12" aria-hidden="true" tabindex="-1"></a><span class="co"># # Plotting</span></span>
+<span id="cb32-13"><a href="#cb32-13" aria-hidden="true" tabindex="-1"></a><span class="co"># ggplot(sig_taxa_family, aes(x = reorder(taxon, lfc_sample_typeparaffin_ctrl), y = lfc_sample_typeparaffin_ctrl, fill = Direction)) +</span></span>
+<span id="cb32-14"><a href="#cb32-14" aria-hidden="true" tabindex="-1"></a><span class="co">#   scale_fill_discrete("") +</span></span>
+<span id="cb32-15"><a href="#cb32-15" aria-hidden="true" tabindex="-1"></a><span class="co">#   geom_bar(stat = "identity") +</span></span>
+<span id="cb32-16"><a href="#cb32-16" aria-hidden="true" tabindex="-1"></a><span class="co">#   coord_flip() +</span></span>
+<span id="cb32-17"><a href="#cb32-17" aria-hidden="true" tabindex="-1"></a><span class="co">#   labs(title = "ANCOM-BC2 - Differential Abundance Analyses", x = "Families", y = "Log Fold Change") +</span></span>
+<span id="cb32-18"><a href="#cb32-18" aria-hidden="true" tabindex="-1"></a><span class="co">#   theme_minimal()</span></span></code><button title="Copy to Clipboard" class="code-copy-button"><i class="bi"></i></button></pre></div>
 </details>
 </div>
 <p>Merge all three plots into single plot</p>
 <div class="cell" data-fig-lightbox="true">
 <details class="code-fold">
 <summary>Code</summary>
-<div class="sourceCode cell-code" id="cb31"><pre class="sourceCode r code-with-copy"><code class="sourceCode r"><span id="cb31-1"><a href="#cb31-1" aria-hidden="true" tabindex="-1"></a><span class="fu">require</span>(patchwork)</span>
-<span id="cb31-2"><a href="#cb31-2" aria-hidden="true" tabindex="-1"></a></span>
-<span id="cb31-3"><a href="#cb31-3" aria-hidden="true" tabindex="-1"></a><span class="co"># plt_species &lt;- ggplot(sig_taxa_species, aes(x = reorder(taxon, lfc_sample_typeparaffin_ctrl), y = lfc_sample_typeparaffin_ctrl, fill = Direction)) +</span></span>
-<span id="cb31-4"><a href="#cb31-4" aria-hidden="true" tabindex="-1"></a><span class="co">#   scale_fill_discrete("") +</span></span>
-<span id="cb31-5"><a href="#cb31-5" aria-hidden="true" tabindex="-1"></a><span class="co">#   geom_bar(stat = "identity") +</span></span>
-<span id="cb31-6"><a href="#cb31-6" aria-hidden="true" tabindex="-1"></a><span class="co">#   coord_flip() +</span></span>
-<span id="cb31-7"><a href="#cb31-7" aria-hidden="true" tabindex="-1"></a><span class="co">#   labs(x = "Species", y = "Log Fold Change") +</span></span>
-<span id="cb31-8"><a href="#cb31-8" aria-hidden="true" tabindex="-1"></a><span class="co">#   theme_minimal()</span></span>
-<span id="cb31-9"><a href="#cb31-9" aria-hidden="true" tabindex="-1"></a><span class="co"># plt_genus &lt;- ggplot(sig_taxa_genus, aes(x = reorder(taxon, lfc_sample_typeparaffin_ctrl), y = lfc_sample_typeparaffin_ctrl, fill = Direction)) +</span></span>
-<span id="cb31-10"><a href="#cb31-10" aria-hidden="true" tabindex="-1"></a><span class="co">#   scale_fill_discrete("") +</span></span>
-<span id="cb31-11"><a href="#cb31-11" aria-hidden="true" tabindex="-1"></a><span class="co">#   geom_bar(stat = "identity") +</span></span>
-<span id="cb31-12"><a href="#cb31-12" aria-hidden="true" tabindex="-1"></a><span class="co">#   coord_flip() +</span></span>
-<span id="cb31-13"><a href="#cb31-13" aria-hidden="true" tabindex="-1"></a><span class="co">#   labs(x = "Genera", y = "Log Fold Change") +</span></span>
-<span id="cb31-14"><a href="#cb31-14" aria-hidden="true" tabindex="-1"></a><span class="co">#   theme_minimal()</span></span>
-<span id="cb31-15"><a href="#cb31-15" aria-hidden="true" tabindex="-1"></a><span class="co"># plt_family &lt;- ggplot(sig_taxa_family, aes(x = reorder(taxon, lfc_sample_typeparaffin_ctrl), y = lfc_sample_typeparaffin_ctrl, fill = Direction)) +</span></span>
-<span id="cb31-16"><a href="#cb31-16" aria-hidden="true" tabindex="-1"></a><span class="co">#   scale_fill_discrete("") +</span></span>
-<span id="cb31-17"><a href="#cb31-17" aria-hidden="true" tabindex="-1"></a><span class="co">#   geom_bar(stat = "identity") +</span></span>
-<span id="cb31-18"><a href="#cb31-18" aria-hidden="true" tabindex="-1"></a><span class="co">#   coord_flip() +</span></span>
-<span id="cb31-19"><a href="#cb31-19" aria-hidden="true" tabindex="-1"></a><span class="co">#   labs(x = "Families", y = "Log Fold Change") +</span></span>
-<span id="cb31-20"><a href="#cb31-20" aria-hidden="true" tabindex="-1"></a><span class="co">#   theme_minimal()</span></span>
-<span id="cb31-21"><a href="#cb31-21" aria-hidden="true" tabindex="-1"></a><span class="co"># </span></span>
-<span id="cb31-22"><a href="#cb31-22" aria-hidden="true" tabindex="-1"></a><span class="co"># </span></span>
-<span id="cb31-23"><a href="#cb31-23" aria-hidden="true" tabindex="-1"></a><span class="co"># combined_plot &lt;- (plt_family | plt_genus) / </span></span>
-<span id="cb31-24"><a href="#cb31-24" aria-hidden="true" tabindex="-1"></a><span class="co">#                   (plt_species | guide_area()) +</span></span>
-<span id="cb31-25"><a href="#cb31-25" aria-hidden="true" tabindex="-1"></a><span class="co">#   plot_layout(guides = "collect") &amp;</span></span>
-<span id="cb31-26"><a href="#cb31-26" aria-hidden="true" tabindex="-1"></a><span class="co">#   theme(legend.position = "right")</span></span>
-<span id="cb31-27"><a href="#cb31-27" aria-hidden="true" tabindex="-1"></a><span class="co"># </span></span>
-<span id="cb31-28"><a href="#cb31-28" aria-hidden="true" tabindex="-1"></a><span class="co"># combined_plot +</span></span>
-<span id="cb31-29"><a href="#cb31-29" aria-hidden="true" tabindex="-1"></a><span class="co">#   plot_annotation(</span></span>
-<span id="cb31-30"><a href="#cb31-30" aria-hidden="true" tabindex="-1"></a><span class="co">#     title = "ANCOM-BC2 - Differential Abundance Analyses",</span></span>
-<span id="cb31-31"><a href="#cb31-31" aria-hidden="true" tabindex="-1"></a><span class="co">#     theme = theme(plot.title = element_text(hjust = 0.5))</span></span>
-<span id="cb31-32"><a href="#cb31-32" aria-hidden="true" tabindex="-1"></a><span class="co">#   )</span></span></code><button title="Copy to Clipboard" class="code-copy-button"><i class="bi"></i></button></pre></div>
+<div class="sourceCode cell-code" id="cb33"><pre class="sourceCode r code-with-copy"><code class="sourceCode r"><span id="cb33-1"><a href="#cb33-1" aria-hidden="true" tabindex="-1"></a><span class="fu">require</span>(patchwork)</span>
+<span id="cb33-2"><a href="#cb33-2" aria-hidden="true" tabindex="-1"></a></span>
+<span id="cb33-3"><a href="#cb33-3" aria-hidden="true" tabindex="-1"></a><span class="co"># plt_species &lt;- ggplot(sig_taxa_species, aes(x = reorder(taxon, lfc_sample_typeparaffin_ctrl), y = lfc_sample_typeparaffin_ctrl, fill = Direction)) +</span></span>
+<span id="cb33-4"><a href="#cb33-4" aria-hidden="true" tabindex="-1"></a><span class="co">#   scale_fill_discrete("") +</span></span>
+<span id="cb33-5"><a href="#cb33-5" aria-hidden="true" tabindex="-1"></a><span class="co">#   geom_bar(stat = "identity") +</span></span>
+<span id="cb33-6"><a href="#cb33-6" aria-hidden="true" tabindex="-1"></a><span class="co">#   coord_flip() +</span></span>
+<span id="cb33-7"><a href="#cb33-7" aria-hidden="true" tabindex="-1"></a><span class="co">#   labs(x = "Species", y = "Log Fold Change") +</span></span>
+<span id="cb33-8"><a href="#cb33-8" aria-hidden="true" tabindex="-1"></a><span class="co">#   theme_minimal()</span></span>
+<span id="cb33-9"><a href="#cb33-9" aria-hidden="true" tabindex="-1"></a><span class="co"># plt_genus &lt;- ggplot(sig_taxa_genus, aes(x = reorder(taxon, lfc_sample_typeparaffin_ctrl), y = lfc_sample_typeparaffin_ctrl, fill = Direction)) +</span></span>
+<span id="cb33-10"><a href="#cb33-10" aria-hidden="true" tabindex="-1"></a><span class="co">#   scale_fill_discrete("") +</span></span>
+<span id="cb33-11"><a href="#cb33-11" aria-hidden="true" tabindex="-1"></a><span class="co">#   geom_bar(stat = "identity") +</span></span>
+<span id="cb33-12"><a href="#cb33-12" aria-hidden="true" tabindex="-1"></a><span class="co">#   coord_flip() +</span></span>
+<span id="cb33-13"><a href="#cb33-13" aria-hidden="true" tabindex="-1"></a><span class="co">#   labs(x = "Genera", y = "Log Fold Change") +</span></span>
+<span id="cb33-14"><a href="#cb33-14" aria-hidden="true" tabindex="-1"></a><span class="co">#   theme_minimal()</span></span>
+<span id="cb33-15"><a href="#cb33-15" aria-hidden="true" tabindex="-1"></a><span class="co"># plt_family &lt;- ggplot(sig_taxa_family, aes(x = reorder(taxon, lfc_sample_typeparaffin_ctrl), y = lfc_sample_typeparaffin_ctrl, fill = Direction)) +</span></span>
+<span id="cb33-16"><a href="#cb33-16" aria-hidden="true" tabindex="-1"></a><span class="co">#   scale_fill_discrete("") +</span></span>
+<span id="cb33-17"><a href="#cb33-17" aria-hidden="true" tabindex="-1"></a><span class="co">#   geom_bar(stat = "identity") +</span></span>
+<span id="cb33-18"><a href="#cb33-18" aria-hidden="true" tabindex="-1"></a><span class="co">#   coord_flip() +</span></span>
+<span id="cb33-19"><a href="#cb33-19" aria-hidden="true" tabindex="-1"></a><span class="co">#   labs(x = "Families", y = "Log Fold Change") +</span></span>
+<span id="cb33-20"><a href="#cb33-20" aria-hidden="true" tabindex="-1"></a><span class="co">#   theme_minimal()</span></span>
+<span id="cb33-21"><a href="#cb33-21" aria-hidden="true" tabindex="-1"></a><span class="co"># </span></span>
+<span id="cb33-22"><a href="#cb33-22" aria-hidden="true" tabindex="-1"></a><span class="co"># </span></span>
+<span id="cb33-23"><a href="#cb33-23" aria-hidden="true" tabindex="-1"></a><span class="co"># combined_plot &lt;- (plt_family | plt_genus) / </span></span>
+<span id="cb33-24"><a href="#cb33-24" aria-hidden="true" tabindex="-1"></a><span class="co">#                   (plt_species | guide_area()) +</span></span>
+<span id="cb33-25"><a href="#cb33-25" aria-hidden="true" tabindex="-1"></a><span class="co">#   plot_layout(guides = "collect") &amp;</span></span>
+<span id="cb33-26"><a href="#cb33-26" aria-hidden="true" tabindex="-1"></a><span class="co">#   theme(legend.position = "right")</span></span>
+<span id="cb33-27"><a href="#cb33-27" aria-hidden="true" tabindex="-1"></a><span class="co"># </span></span>
+<span id="cb33-28"><a href="#cb33-28" aria-hidden="true" tabindex="-1"></a><span class="co"># combined_plot +</span></span>
+<span id="cb33-29"><a href="#cb33-29" aria-hidden="true" tabindex="-1"></a><span class="co">#   plot_annotation(</span></span>
+<span id="cb33-30"><a href="#cb33-30" aria-hidden="true" tabindex="-1"></a><span class="co">#     title = "ANCOM-BC2 - Differential Abundance Analyses",</span></span>
+<span id="cb33-31"><a href="#cb33-31" aria-hidden="true" tabindex="-1"></a><span class="co">#     theme = theme(plot.title = element_text(hjust = 0.5))</span></span>
+<span id="cb33-32"><a href="#cb33-32" aria-hidden="true" tabindex="-1"></a><span class="co">#   )</span></span></code><button title="Copy to Clipboard" class="code-copy-button"><i class="bi"></i></button></pre></div>
 </details>
 </div>
 <p>MaAsLin2</p>
